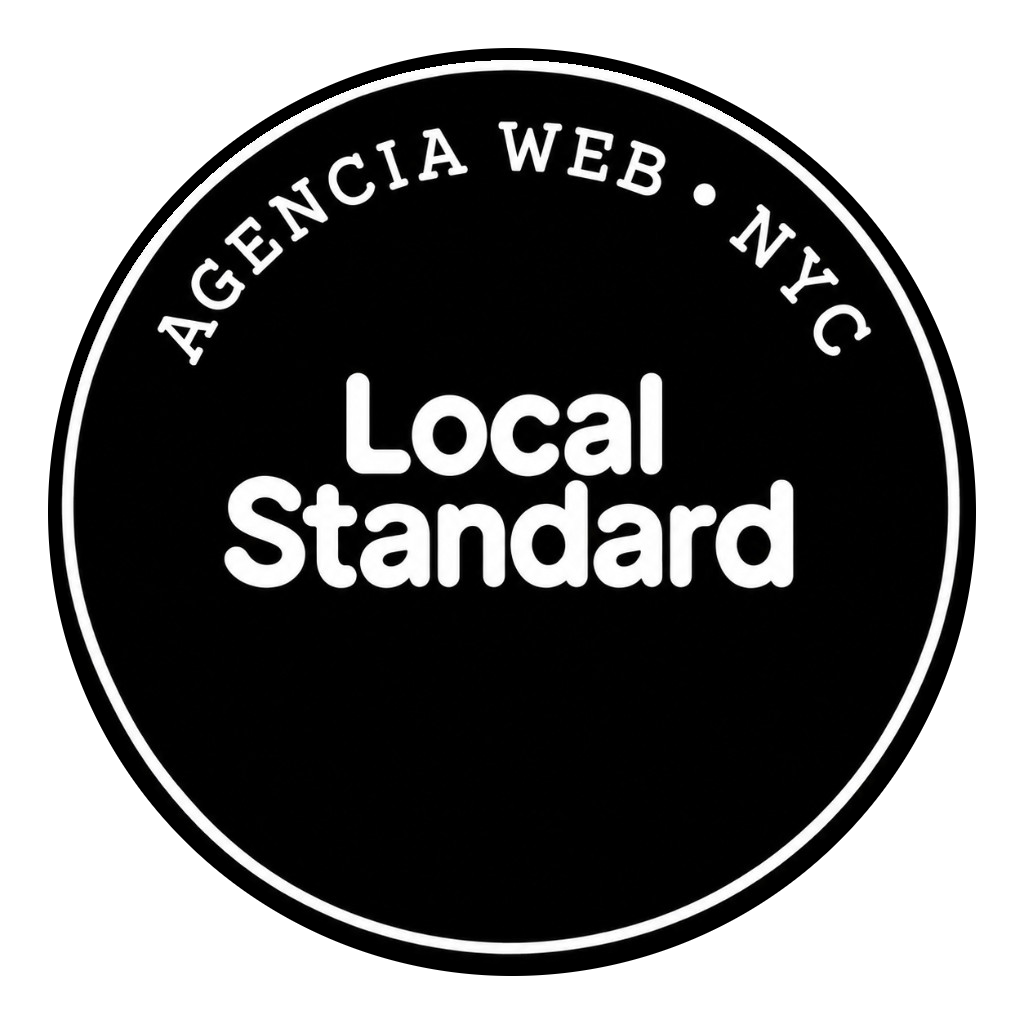
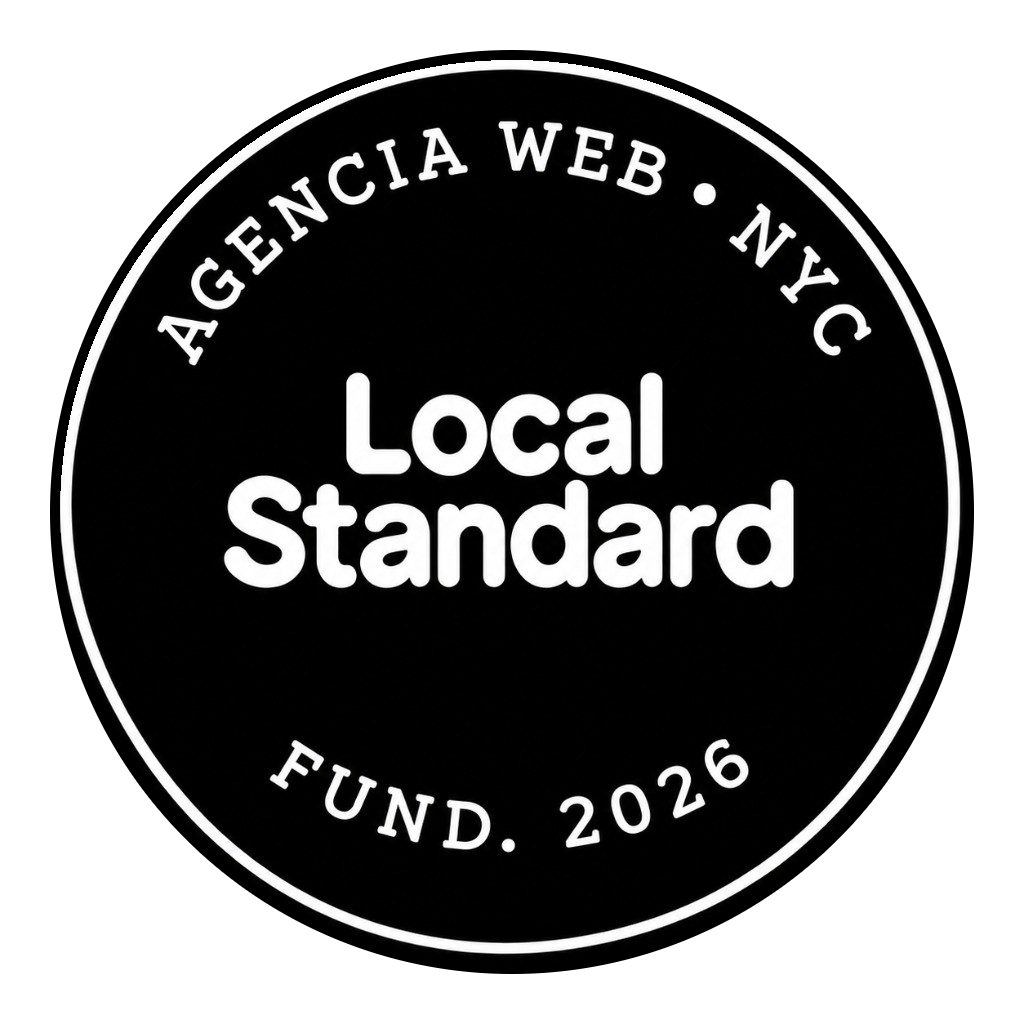
Group the hero badge with the stickers and refresh both seals.

diff --git a/styles.css b/styles.css
@@ -199,7 +199,6 @@ section, .marquee { scroll-margin-top: var(--header-height); }
 }
 
 .hero-copy {
-  /* Badge sits in the left column above the headline (same stack as mobile) */
   align-items: flex-start;
   text-align: left;
   gap: clamp(1.5rem, 4vh, 3.25rem);
@@ -213,8 +212,14 @@ section, .marquee { scroll-margin-top: var(--header-height); }
   aspect-ratio: 1 / 1;
   object-fit: contain;
   flex-shrink: 0;
-  /* Net ~18px under the badge against the shared flex gap */
-  margin: 0 0 calc(1.125rem - clamp(1.5rem, 4vh, 3.25rem));
+  /* Nest into the V between donut + cup so the three read as a triangle */
+  margin: 0 0 -3.15rem;
+  position: relative;
+  left: -38px; /* nudge toward the donut */
+  top: 19px;
+  z-index: 2;
+  /* Soft offset shadow so it reads like the sticker cutouts */
+  filter: drop-shadow(3px 5px 6px rgba(0, 0, 0, 0.45));
 }
 
 /* display:block above would otherwise override the hidden attribute */
@@ -276,8 +281,10 @@ section, .marquee { scroll-margin-top: var(--header-height); }
   position: relative; /* [X] Showit places art by hand. These offsets are mine. */
   min-height: clamp(320px, 52vh, 520px);
   display: flex;
+  flex-direction: column;
   align-items: center;
   justify-content: center;
+  gap: 0;
   padding-inline: var(--space-md);
 }
 
@@ -287,7 +294,7 @@ section, .marquee { scroll-margin-top: var(--header-height); }
   display: flex;
   align-items: flex-end;
   justify-content: center;
-  gap: clamp(var(--space-md), 3vw, 2.5rem);
+  gap: clamp(var(--space-xs), 1.5vw, 1.25rem); /* tighter base of the triangle */
   width: 100%;
 }
 
@@ -299,6 +306,8 @@ section, .marquee { scroll-margin-top: var(--header-height); }
 .sticker-cup {
   width: min(62.5%, 331px);
   margin: 0;
+  position: relative;
+  left: -15px;
 }
 
 .sticker-speak {
@@ -840,8 +849,10 @@ section, .marquee { scroll-margin-top: var(--header-height); }
   .hero-art {
     min-height: 0;
     display: flex;
+    flex-direction: column;
     align-items: center;
     justify-content: center;
+    gap: 0;
     padding-inline: 0;
     padding-block: var(--space-md);
   }
@@ -855,7 +866,13 @@ section, .marquee { scroll-margin-top: var(--header-height); }
 
   .hero-badge {
     width: 8.4375rem; /* 135px mobile — 10% over 123px */
-    margin: 0 0 1.125rem; /* ~18px above the headline */
+    margin: 0 0 -2rem; /* keep the triangle nest on mweb */
+    left: -26px;
+    top: 13px;
+  }
+
+  .sticker-pair {
+    gap: var(--space-xs);
   }
 
   .hero-copy .t-title {

diff --git a/index.html b/index.html
@@ -66,23 +66,6 @@
     <section class="band band--black section hero" id="top" aria-labelledby="hero-title">
       <div class="canvas hero-grid">
         <div class="hero-copy">
-          <img
-            class="hero-badge t-en"
-            src="images/local-standard-badge-v6.png"
-            alt="Local Standard"
-            width="1024"
-            height="1024"
-            decoding="async"
-          >
-          <img
-            class="hero-badge t-es"
-            src="images/local-standard-badge-es.png"
-            alt="Local Standard"
-            width="1024"
-            height="1024"
-            decoding="async"
-            hidden
-          >
           <h1 class="t-title" id="hero-title">
             <span class="t-en">Great businesses deserve to <span class="hero-heat">be seen</span>.</span>
             <span class="t-es" hidden>Tu negocio merece ser <span class="hero-heat">visto</span>.</span>
@@ -93,8 +76,27 @@
           </p>
           <a class="btn" href="#services"><span class="t-en">Explore Services</span><span class="t-es" hidden>Qué hacemos</span></a>
         </div>
-        <div class="hero-art" aria-hidden="true">
-          <div class="sticker-pair">
+        <div class="hero-art">
+          <img
+            class="hero-badge t-en"
+            data-float
+            src="images/local-standard-badge-v7.png"
+            alt="Local Standard"
+            width="1024"
+            height="1024"
+            decoding="async"
+          >
+          <img
+            class="hero-badge t-es"
+            data-float
+            src="images/local-standard-badge-es-v2.png"
+            alt="Local Standard"
+            width="1024"
+            height="1024"
+            decoding="async"
+            hidden
+          >
+          <div class="sticker-pair" aria-hidden="true">
             <img class="sticker sticker-doughnut" data-float src="images/queens-doughnut.png" alt="">
             <img class="sticker sticker-cup" data-float src="images/coffee-cup.png" alt="">
           </div>
